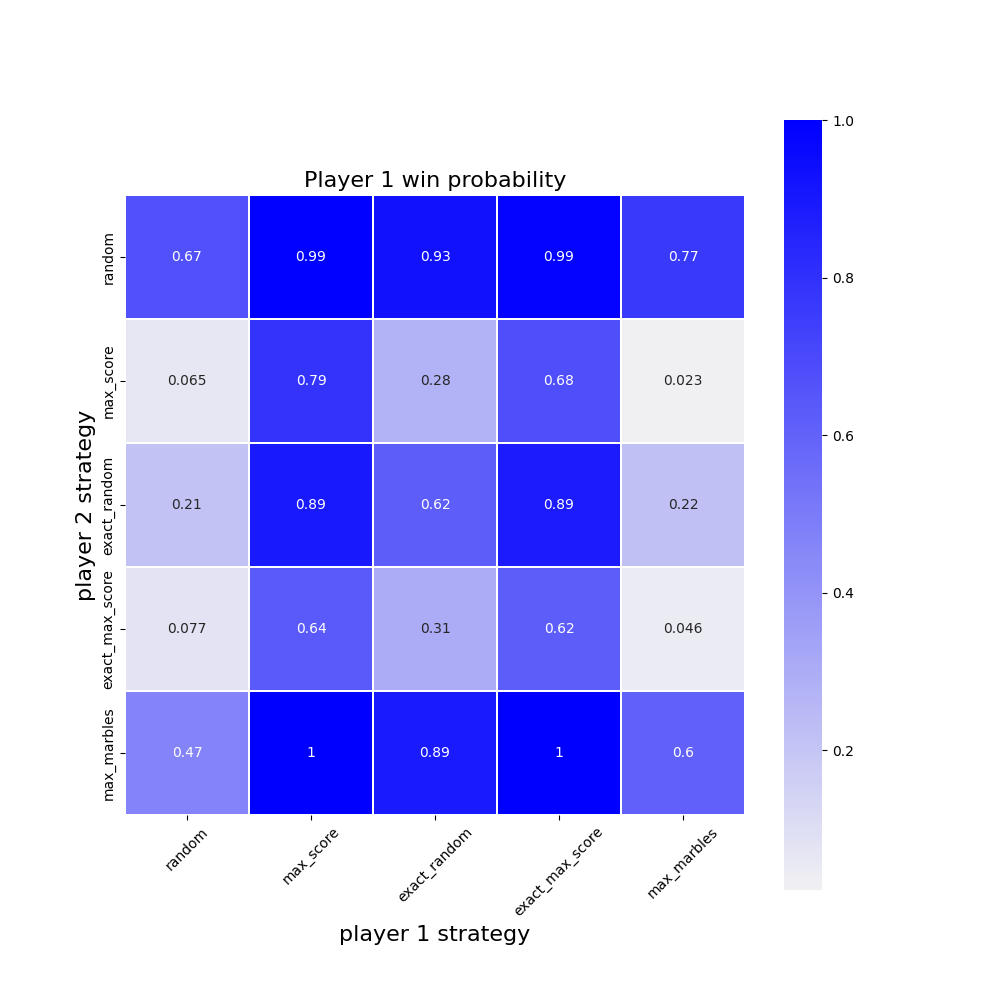
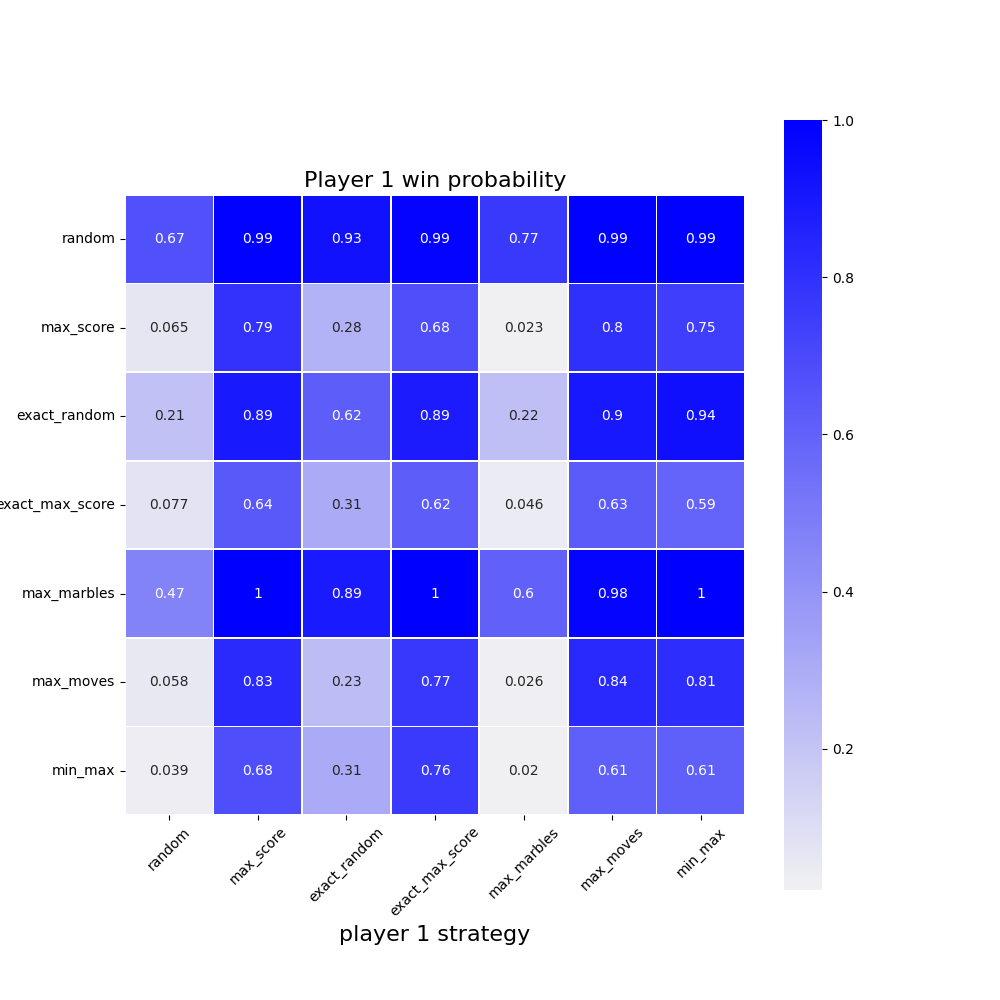
New matrix

diff --git a/core/plotting/strategy_comparisons.py b/core/plotting/strategy_comparisons.py
@@ -35,13 +35,7 @@ def make_prob_matrix(data, title, savename):
 def main(args):
     df = pd.read_csv(args.input)
 
-    all_strategies = [
-            'random',
-            'max_score',
-            'exact_random',
-            'exact_max_score',
-            'max_marbles',
-    ]
+    all_strategies = df['player_one_strategy'].unique()
 
     player_1_win_probs = pd.DataFrame(columns=all_strategies, index=all_strategies, dtype='float')
     draw_probs         = pd.DataFrame(columns=all_strategies, index=all_strategies, dtype='float')
